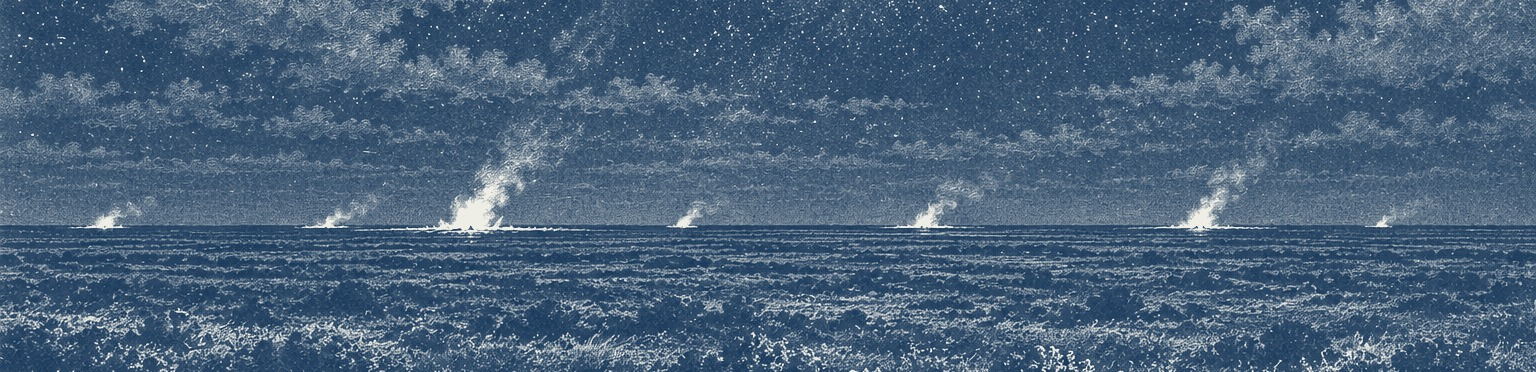
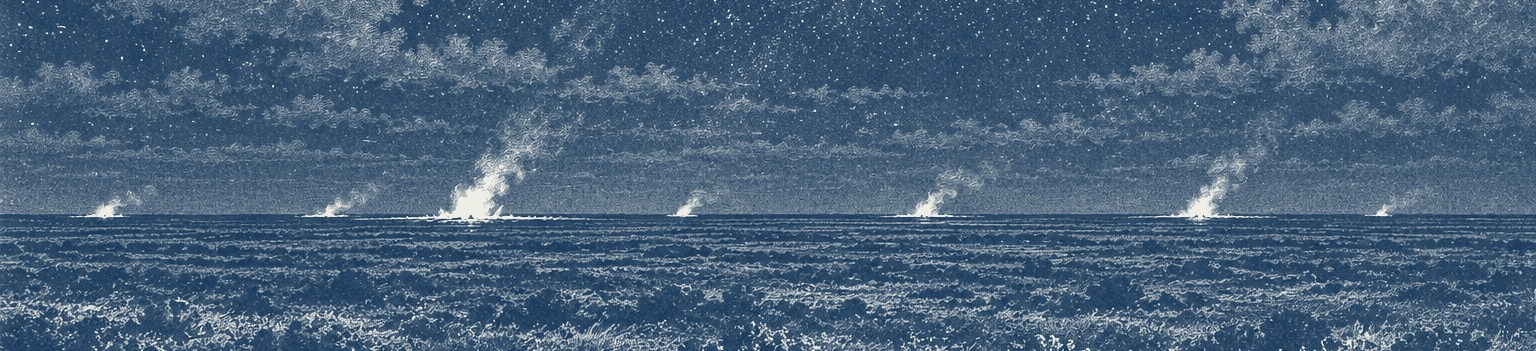
055: la imagen llega hasta el lomo

diff --git a/index.html b/index.html
@@ -5,23 +5,23 @@
 <meta charset="utf-8">
 <meta name="viewport" content="width=1280">
 <title>Darwin en la Argentina — libro</title>
-<link rel="stylesheet" href="styles/tokens.css?v=42d6abe5">
-<link rel="stylesheet" href="styles/typography.css?v=42d6abe5">
-<link rel="stylesheet" href="styles/grid.css?v=42d6abe5">
-<link rel="stylesheet" href="styles/components.css?v=42d6abe5">
-<link rel="stylesheet" href="styles/pages.css?v=42d6abe5">
-<link rel="stylesheet" href="styles/maps.css?v=42d6abe5">
-<link rel="stylesheet" href="styles/paradas.css?v=42d6abe5">
-<link rel="stylesheet" href="styles/registros.css?v=42d6abe5">
-<link rel="stylesheet" href="styles/tramo-03.css?v=42d6abe5">
-<link rel="stylesheet" href="styles/tramo-04-05.css?v=42d6abe5">
-<link rel="stylesheet" href="styles/tramo-05-07.css?v=42d6abe5">
-<link rel="stylesheet" href="styles/tramo-07-10.css?v=42d6abe5">
-<link rel="stylesheet" href="styles/tramo-10-15.css?v=42d6abe5">
-<link rel="stylesheet" href="styles/fotos.css?v=42d6abe5">
-<link rel="stylesheet" href="tapa/tapa.css?v=42d6abe5">
-<link rel="stylesheet" href="styles/medida.css?v=42d6abe5">
-<link rel="stylesheet" href="styles/print.css?v=42d6abe5">
+<link rel="stylesheet" href="styles/tokens.css?v=ee0c9f93">
+<link rel="stylesheet" href="styles/typography.css?v=ee0c9f93">
+<link rel="stylesheet" href="styles/grid.css?v=ee0c9f93">
+<link rel="stylesheet" href="styles/components.css?v=ee0c9f93">
+<link rel="stylesheet" href="styles/pages.css?v=ee0c9f93">
+<link rel="stylesheet" href="styles/maps.css?v=ee0c9f93">
+<link rel="stylesheet" href="styles/paradas.css?v=ee0c9f93">
+<link rel="stylesheet" href="styles/registros.css?v=ee0c9f93">
+<link rel="stylesheet" href="styles/tramo-03.css?v=ee0c9f93">
+<link rel="stylesheet" href="styles/tramo-04-05.css?v=ee0c9f93">
+<link rel="stylesheet" href="styles/tramo-05-07.css?v=ee0c9f93">
+<link rel="stylesheet" href="styles/tramo-07-10.css?v=ee0c9f93">
+<link rel="stylesheet" href="styles/tramo-10-15.css?v=ee0c9f93">
+<link rel="stylesheet" href="styles/fotos.css?v=ee0c9f93">
+<link rel="stylesheet" href="tapa/tapa.css?v=ee0c9f93">
+<link rel="stylesheet" href="styles/medida.css?v=ee0c9f93">
+<link rel="stylesheet" href="styles/print.css?v=ee0c9f93">
 </head>
 <body>
 <div class="spread"><div class="slot--empty"></div><section class="page page--cover page--right front" id="ptapa">
@@ -1538,7 +1538,7 @@
       <div><dt>21</dt><dd class="t-data">soldados en la quinta posta</dd></div>
       <div><dt>3 y 7</dt><dd class="t-data">avestruces y ciervos de la caza del día</dd></div>
     </dl>
-    <div class="p055__image foto" style="background-image:url(assets/images/055-hogueras.jpg?v=80957e2f)" role="img" aria-label="horizonte de la llanura de noche, con hogueras lejanas encendidas en varios puntos"></div>
+    <div class="p055__image foto" style="background-image:url(assets/images/055-hogueras.jpg?v=0ff42167)" role="img" aria-label="horizonte de la llanura de noche, con hogueras lejanas encendidas en varios puntos"></div>
   </div>
   <div class="page__folio"><b>055</b><span>07 Travesía de las Pampas</span></div>
 </section>

diff --git a/styles/medida.css b/styles/medida.css
@@ -266,3 +266,6 @@
 .p049__text { grid-column: 1 / 7; grid-row: 7 / 13; column-count: 2; column-gap: var(--column-gap); column-fill: balance; align-self: start; orphans: 1; widows: 1; }
 .p049__cut { grid-row: 15 / 24; }
 .p049__caption { grid-row: 25; }
+
+/* 055: la imagen llega también hasta el lomo (la mitad de la doble): ocupa todo el ancho de la página (12 oct. 2026) */
+.p055__image { margin-left: calc(var(--margin-inner) * -1); }

diff --git a/tools/fotos.py b/tools/fotos.py
@@ -35,7 +35,7 @@ FOTOS = [
     ('051', 'horizonte-sierra', 92.3, 72, 'c', .4, .45, 0),
     ('052', 'llanura-rebano', 92.3, 45, 'c', .5, .50, 0),
     ('053', 'fogon', 210, 59.5, 'c', .5, .50, 0),
-    ('055', 'hogueras', 198, 48, 'c', .5, .52, 0),
+    ('055', 'hogueras', 210, 48, 'c', .5, .52, 0),
     ('063', 'plaza-buenos-aires', 92.3, 40.5, 'c', .5, .40, 0),
     ('065', 'cardal', 102, 148, 'c', .5, .5, 0),
     ('066', 'vizcacha', 92.3, 40.5, 'l', .5, .5, 0),

diff --git a/BOOK_PROGRESS.md b/BOOK_PROGRESS.md
@@ -523,3 +523,4 @@ Se reemplazaron los 39 recuadros de imagen pendiente por ilustraciones generadas
 - 2026-10-12 · 031: la imagen empieza y termina con el texto (líneas 7–19; borde superior a la altura de las mayúsculas de la primera línea, inferior en la línea de base de la última; recorte 92,3 × 56,65 mm, 423 ppp). Pedido de Patricio. Solo CSS e imagen: sigue bloqueada.
 - 2026-10-12 · 034: la imagen empieza y termina con el texto (líneas 7–27; mismo criterio que 031; recorte 92,3 × 92,65 mm, 344 ppp). Pedido de Patricio. Solo CSS e imagen: sigue bloqueada.
 - 2026-10-12 · 049 recompuesta (pedido de Patricio: el texto quedaba solo arriba a la derecha). El texto va bajo el título en dos columnas anchas (líneas 7–11, termina a la altura del pie de la imagen de 048); el corte, a todo el ancho, empieza en la línea 15, como el título y el perfil de 048; la nota ED sigue en la 25. Solo CSS: sigue bloqueada.
+- 2026-10-12 · 055: la imagen de las hogueras llega también hasta el lomo: ocupa todo el ancho de la página, a sangre a la derecha y abajo (pedido de Patricio; caja 210 × 48 mm, 186 ppp). Solo CSS e imagen: sigue bloqueada.
